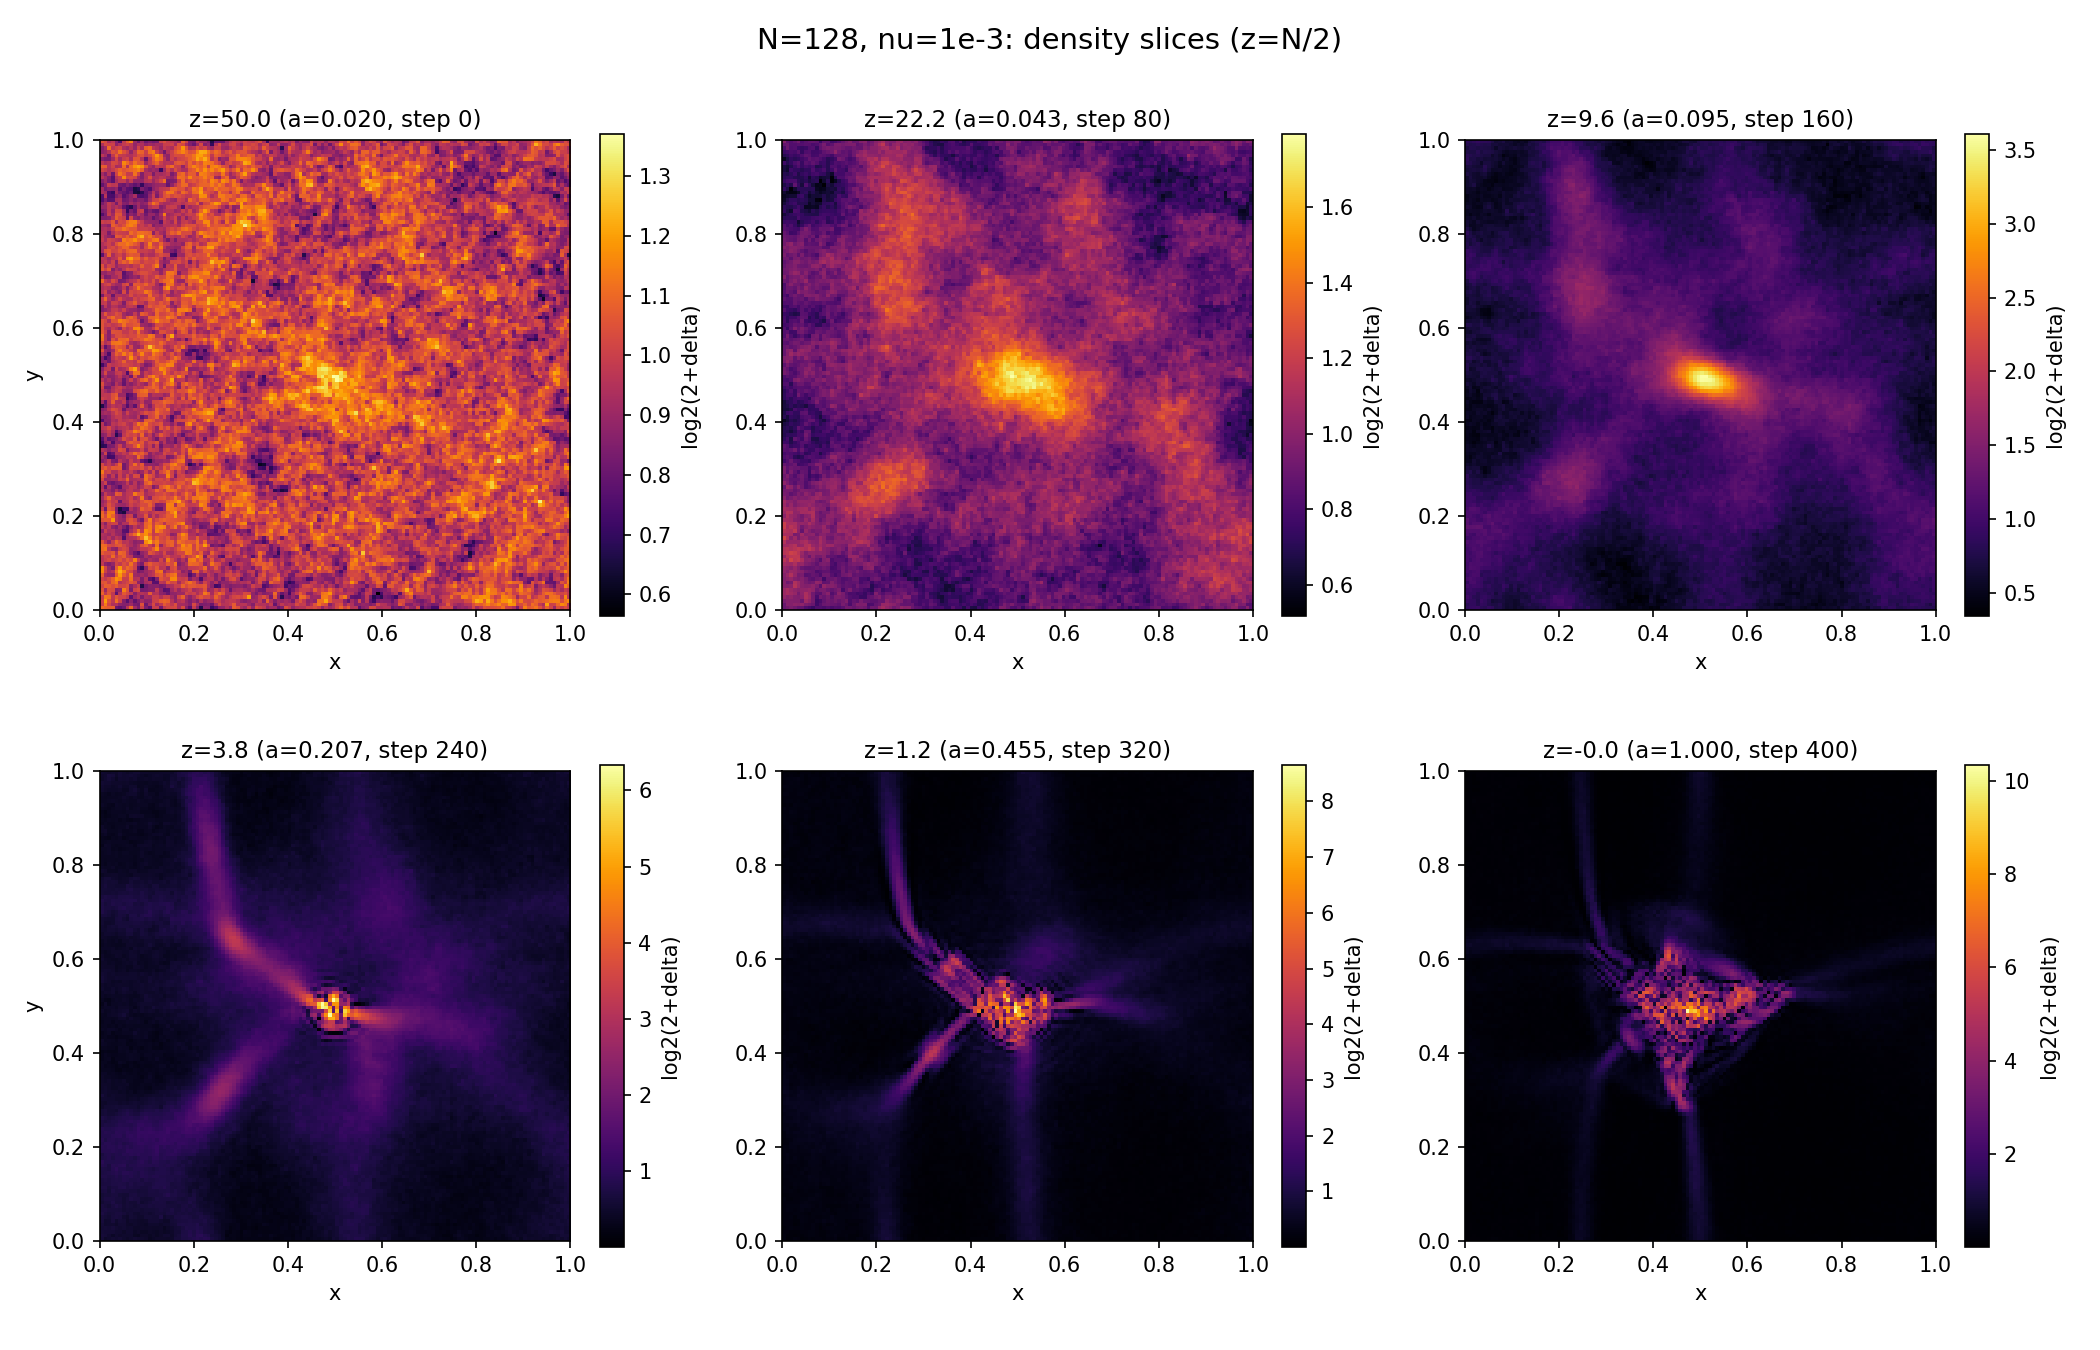
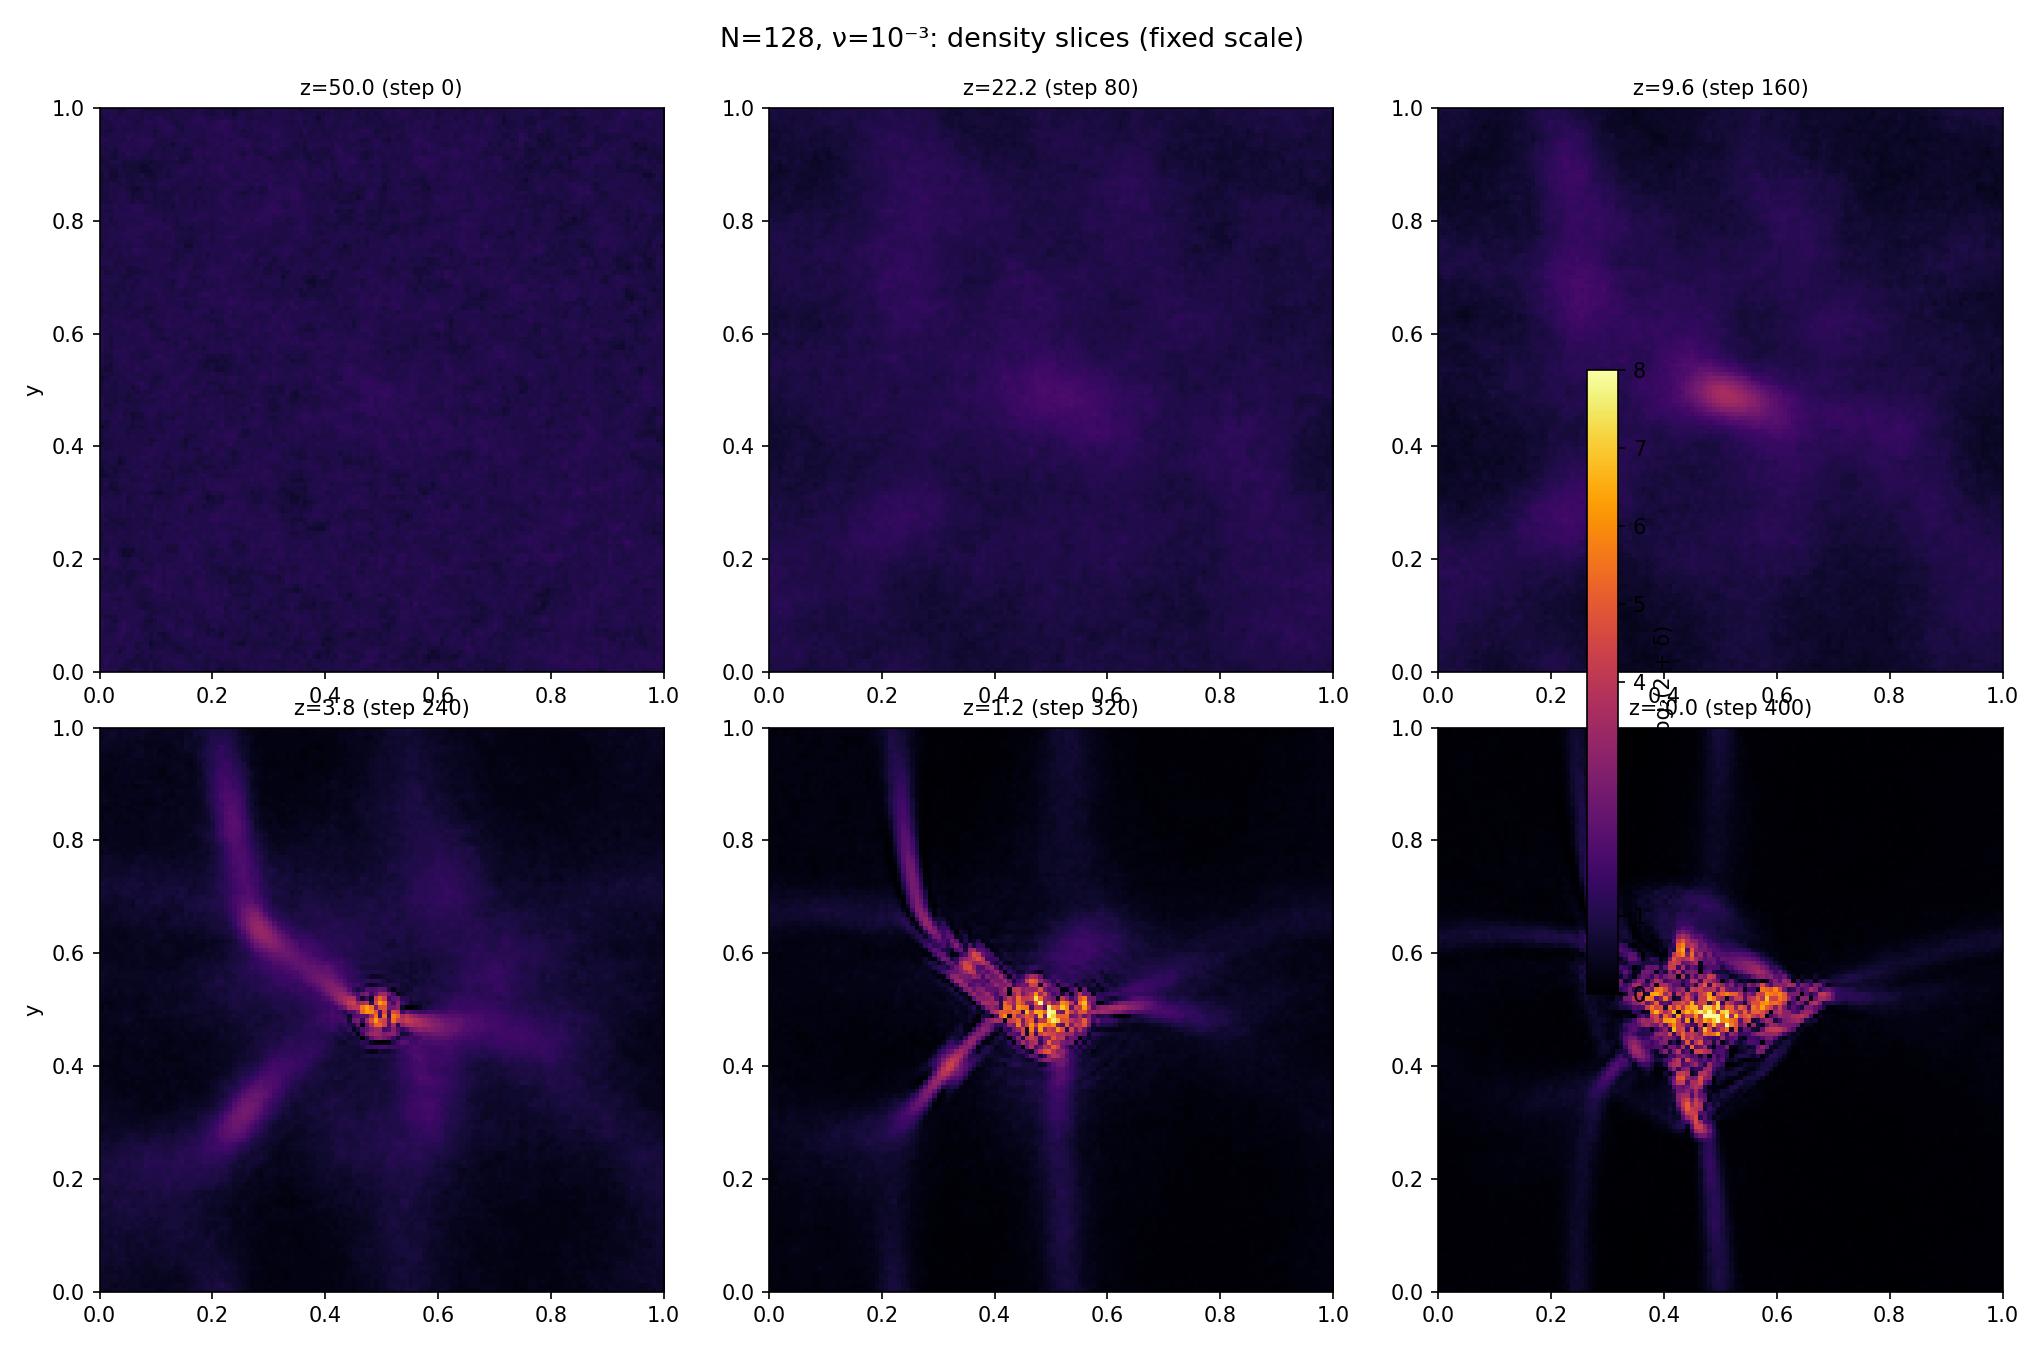
Standardise all density plots to fixed color scale
All cosmological density slices now use identical color mapping:
log2(2+delta) with vmin=0 (empty void), vmax=8 (delta=254).
A given color means the same density across every plot, every
redshift, every code — enabling direct visual comparison.

Includes replot_all_fixed_scale.py for reproducibility.

Replotted: N=128 slices, N=256 slices, GADGET comparison,
ZA comparison. Earlier test plots (tophat, 1D) left unchanged
as they show different physics.

diff --git a/code/schrodinger_poisson/replot_all_fixed_scale.py b/code/schrodinger_poisson/replot_all_fixed_scale.py
@@ -1,0 +1,279 @@
+#!/usr/bin/env python3
+"""Replot all cosmological density slices with a fixed color scale.
+
+Every plot uses log2(2 + delta) with vmin=0, vmax=8, cmap='inferno'.
+This ensures a given color means the same density everywhere.
+
+Reference:
+  black  = empty void (delta = -1)
+  dark   = underdense (delta < 0)
+  orange = mean density (delta = 0, log2 = 1.0)
+  yellow = overdense
+  white  = strongly collapsed (delta > 100)
+"""
+
+import matplotlib
+matplotlib.use('Agg')
+import numpy as np
+import matplotlib.pyplot as plt
+import h5py
+import glob
+import os
+
+# Universal color scale
+VMIN = 0.0   # log2(2 + delta) for delta = -1 (empty)
+VMAX = 8.0   # log2(2 + delta) for delta = 254
+CMAP = 'inferno'
+
+
+def load_sp(fpath):
+    with open(fpath, 'rb') as f:
+        step = np.frombuffer(f.read(4), dtype=np.int32)[0]
+        n = np.frombuffer(f.read(4), dtype=np.int32)[0]
+        a = np.frombuffer(f.read(8), dtype=np.float64)[0]
+        nu = np.frombuffer(f.read(8), dtype=np.float64)[0]
+        psi = np.frombuffer(f.read(), dtype=np.complex128).reshape(n, n, n)
+    rho = np.abs(psi)**2
+    return n, step, a, rho / np.mean(rho) - 1.0
+
+
+def load_gadget_tsc(fpath, N_grid):
+    with h5py.File(fpath, 'r') as f:
+        pos = f['PartType1/Coordinates'][:].astype(np.float64)
+        a = f['Header'].attrs['Time']
+        boxsize = f['Header'].attrs['BoxSize']
+    pos_norm = pos / boxsize
+    rho = np.zeros((N_grid, N_grid, N_grid))
+    dx = 1.0 / N_grid
+    gx = pos_norm[:, 0] / dx; gy = pos_norm[:, 1] / dx; gz = pos_norm[:, 2] / dx
+    ix0 = np.round(gx).astype(int); iy0 = np.round(gy).astype(int); iz0 = np.round(gz).astype(int)
+    fx = gx - ix0; fy = gy - iy0; fz = gz - iz0
+    def tsc_w(d):
+        ad = np.abs(d); w = np.zeros_like(d)
+        m1 = ad < 0.5; w[m1] = 0.75 - d[m1]**2
+        m2 = (ad >= 0.5) & (ad < 1.5); w[m2] = 0.5 * (1.5 - ad[m2])**2
+        return w
+    for dix in [-1, 0, 1]:
+        wx = tsc_w(fx - dix); iix = (ix0 + dix) % N_grid
+        for diy in [-1, 0, 1]:
+            wy = tsc_w(fy - diy); iiy = (iy0 + diy) % N_grid
+            for diz in [-1, 0, 1]:
+                wz = tsc_w(fz - diz); iiz = (iz0 + diz) % N_grid
+                np.add.at(rho, (iix, iiy, iiz), wx * wy * wz)
+    return a, rho / np.mean(rho) - 1.0
+
+
+def plot_slice(ax, delta, N, title):
+    iz = N // 2
+    im = ax.imshow(np.log2(2 + delta[:, :, iz]).T, origin='lower',
+                   extent=[0, 1, 0, 1], cmap=CMAP, vmin=VMIN, vmax=VMAX)
+    ax.set_title(title, fontsize=10)
+    return im
+
+
+# ================================================================
+# 1. N=128 density slices (nu=1e-3)
+# ================================================================
+def replot_n128_slices():
+    files = sorted(glob.glob('output/sp_cosmo_n128_nu_0.001000/psi_*.bin'))
+    if not files:
+        print("  No N=128 nu=1e-3 snapshots found, skipping")
+        return
+
+    indices = [0, 2, 4, 6, 8, 10] if len(files) >= 11 else list(range(min(6, len(files))))
+    ncols = min(len(indices), 3)
+    nrows = (len(indices) + ncols - 1) // ncols
+
+    fig, axes = plt.subplots(nrows, ncols, figsize=(4.5 * ncols, 4.5 * nrows))
+    if nrows == 1: axes = [axes]
+    if ncols == 1: axes = [[a] for a in axes]
+
+    for col, fi in enumerate(indices):
+        N, step, a, delta = load_sp(files[fi])
+        row = col // ncols; c = col % ncols
+        im = plot_slice(axes[row][c], delta, N, f'z={1/a-1:.1f} (step {step})')
+        if c == 0: axes[row][c].set_ylabel('y')
+
+    fig.colorbar(im, ax=axes, label='log₂(2 + δ)', shrink=0.6)
+    fig.suptitle('N=128, ν=10⁻³: density slices (fixed scale)', fontsize=13)
+    fig.tight_layout()
+    fig.savefig('output/sp_cosmo_n128_nu_0.001000/density_slices.png', dpi=150)
+    plt.close()
+    print("  Saved N=128 density_slices.png")
+
+
+# ================================================================
+# 2. N=256 density slices (nu=1e-4) — already done but regenerate
+# ================================================================
+def replot_n256_slices():
+    files = sorted(glob.glob('output/sp_cosmo_n256_nu_0.000100/psi_*.bin'))
+    if not files:
+        print("  No N=256 snapshots found, skipping")
+        return
+
+    indices = np.linspace(0, len(files) - 1, min(10, len(files)), dtype=int)
+    ncols = 5
+    nrows = (len(indices) + ncols - 1) // ncols
+
+    fig, axes = plt.subplots(nrows, ncols, figsize=(4 * ncols, 4 * nrows))
+
+    for col, fi in enumerate(indices):
+        N, step, a, delta = load_sp(files[fi])
+        row = col // ncols; c = col % ncols
+        im = plot_slice(axes[row][c], delta, N, f'z={1/a-1:.1f}')
+        if c == 0: axes[row][c].set_ylabel('y')
+
+    fig.colorbar(im, ax=axes, label='log₂(2 + δ)', shrink=0.6)
+    fig.suptitle('N=256, ν=10⁻⁴: density slices (fixed scale)', fontsize=13)
+    fig.tight_layout()
+    fig.savefig('output/sp_cosmo_n256_nu_0.000100/density_slices_n256.png', dpi=150)
+    plt.close()
+    print("  Saved N=256 density_slices_n256.png")
+
+
+# ================================================================
+# 3. GADGET full comparison (matched ICs)
+# ================================================================
+def replot_gadget_comparison():
+    gadget_dir = '/home/edward/Projects/PhD/gadget4/runs/wm-comparison/output'
+    sp_dir = 'output/sp_cosmo_gadget_ic_nu_0.000300'
+    gadget_snaps = sorted(glob.glob(f'{gadget_dir}/snapshot_00[1-9].hdf5'))
+    sp_files = sorted(glob.glob(f'{sp_dir}/psi_*.bin'))
+
+    if not gadget_snaps or not sp_files:
+        print("  Missing GADGET or S-P snapshots, skipping")
+        return
+
+    # Match snapshots
+    pairs = []
+    for gsnap in gadget_snaps:
+        with h5py.File(gsnap, 'r') as f:
+            a_g = float(f['Header'].attrs['Time'])
+        best_da = float('inf'); best_f = None
+        for sf in sp_files:
+            with open(sf, 'rb') as f:
+                f.read(4); f.read(4)
+                a_sp = np.frombuffer(f.read(8), dtype=np.float64)[0]
+            if abs(a_sp - a_g) < best_da:
+                best_da = abs(a_sp - a_g); best_f = sf
+        pairs.append((gsnap, best_f, a_g))
+
+    ncols = len(pairs)
+    fig, axes = plt.subplots(2, ncols, figsize=(3.5 * ncols, 7), squeeze=False)
+
+    for col, (gsnap, sp_file, a_g) in enumerate(pairs):
+        z_g = 1.0 / a_g - 1.0
+        N_g = 128
+        a_gd, delta_g = load_gadget_tsc(gsnap, N_g)
+        N_s, step, a_sp, delta_sp = load_sp(sp_file)
+
+        corr = np.corrcoef(delta_g.ravel(), delta_sp.ravel())[0, 1]
+
+        plot_slice(axes[0][col], delta_g, N_g, f'GADGET z={z_g:.1f}')
+        if col == 0: axes[0][col].set_ylabel('y')
+        im = plot_slice(axes[1][col], delta_sp, N_s, f'S-P r={corr:.3f}')
+        if col == 0: axes[1][col].set_ylabel('y')
+
+    fig.colorbar(im, ax=axes, label='log₂(2 + δ)', shrink=0.6)
+    fig.suptitle('GADGET-4 vs S-P (matched ICs, N=128, fixed scale)', fontsize=13)
+    fig.tight_layout()
+    fig.savefig(f'{sp_dir}/gadget_full_comparison.png', dpi=150)
+    plt.close()
+    print("  Saved gadget_full_comparison.png")
+
+
+# ================================================================
+# 4. ZA comparison (N=128)
+# ================================================================
+def replot_za_comparison():
+    sp_dir = 'output/sp_cosmo_n128_nu_0.001000'
+    za_dir = '../fpa_3d_cosmo/output/za_N128'
+    sp_files = sorted(glob.glob(f'{sp_dir}/psi_*.bin'))
+
+    import struct
+    za_D = [5, 15, 25, 34]
+    Omega_m0 = 0.27; Omega_Lambda = 0.73; a_init = 1.0 / 51.0
+
+    def hubble(a): return np.sqrt(Omega_m0 / a**3 + Omega_Lambda)
+    def growth_factor(a):
+        nsteps = 10000; da = a / nsteps; s = 0.0
+        for i in range(nsteps):
+            a0 = max(i * da, 1e-10); a1 = (i + 0.5) * da; a2 = (i + 1) * da
+            s += (1 / (a0 * hubble(a0))**3 + 4 / (a1 * hubble(a1))**3 + 1 / (a2 * hubble(a2))**3) * da / 6
+        return 2.5 * Omega_m0 * hubble(a) * s
+    D_init = growth_factor(a_init)
+
+    def D_to_a(D):
+        lo, hi = a_init, 1.5
+        for _ in range(100):
+            mid = (lo + hi) / 2
+            if growth_factor(mid) / D_init < D: lo = mid
+            else: hi = mid
+        return (lo + hi) / 2
+
+    if not sp_files or not os.path.exists(za_dir):
+        print("  Missing ZA or S-P data, skipping")
+        return
+
+    pairs = []
+    for Dv in za_D:
+        fname = f'{za_dir}/za_density_D{Dv}.bin'
+        if not os.path.exists(fname): continue
+        with open(fname, 'rb') as f:
+            D = struct.unpack('d', f.read(8))[0]
+            n = struct.unpack('i', f.read(4))[0]
+            L = struct.unpack('d', f.read(8))[0]
+            delta_za = np.frombuffer(f.read(), dtype=np.float64).reshape(n, n, n)
+        a_za = D_to_a(Dv)
+        best_da = float('inf'); best_f = None
+        for sf in sp_files:
+            with open(sf, 'rb') as f:
+                f.read(4); f.read(4)
+                a_sp = np.frombuffer(f.read(8), dtype=np.float64)[0]
+            if abs(a_sp - a_za) < best_da:
+                best_da = abs(a_sp - a_za); best_f = sf
+        N_s, step, a_sp, delta_sp = load_sp(best_f)
+        corr = np.corrcoef(delta_za.ravel(), delta_sp.ravel())[0, 1]
+        pairs.append((Dv, a_za, delta_za, n, delta_sp, N_s, corr))
+
+    if not pairs: return
+
+    ncols = len(pairs)
+    fig, axes = plt.subplots(2, ncols, figsize=(4.5 * ncols, 8), squeeze=False)
+
+    for col, (Dv, a_za, dza, N_za, dsp, N_sp, corr) in enumerate(pairs):
+        z_za = 1.0 / a_za - 1.0
+        plot_slice(axes[0][col], dza, N_za, f'ZA z={z_za:.1f} (D={Dv})')
+        if col == 0: axes[0][col].set_ylabel('y')
+        im = plot_slice(axes[1][col], dsp, N_sp, f'S-P r={corr:.3f}')
+        if col == 0: axes[1][col].set_ylabel('y')
+
+    fig.colorbar(im, ax=axes, label='log₂(2 + δ)', shrink=0.6)
+    fig.suptitle('ZA vs S-P (N=128, ν=10⁻³, fixed scale)', fontsize=13)
+    fig.tight_layout()
+    fig.savefig(f'{sp_dir}/za_comparison_n128.png', dpi=150)
+    plt.close()
+    print("  Saved za_comparison_n128.png")
+
+
+# ================================================================
+# Run all
+# ================================================================
+if __name__ == "__main__":
+    print("Replotting all density slices with fixed color scale...")
+    print(f"  vmin={VMIN}, vmax={VMAX}, cmap={CMAP}")
+    print()
+
+    print("1. N=128 density slices:")
+    replot_n128_slices()
+
+    print("2. N=256 density slices:")
+    replot_n256_slices()
+
+    print("3. GADGET comparison:")
+    replot_gadget_comparison()
+
+    print("4. ZA comparison:")
+    replot_za_comparison()
+
+    print("\nDone.")
